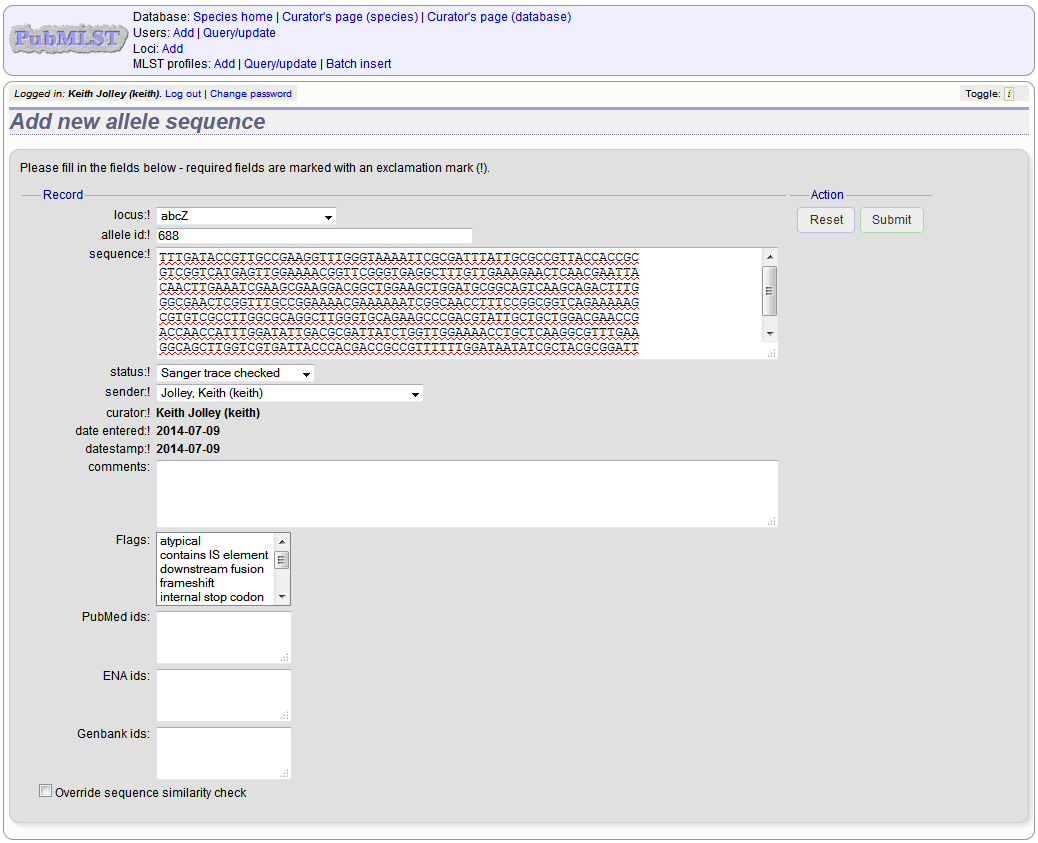
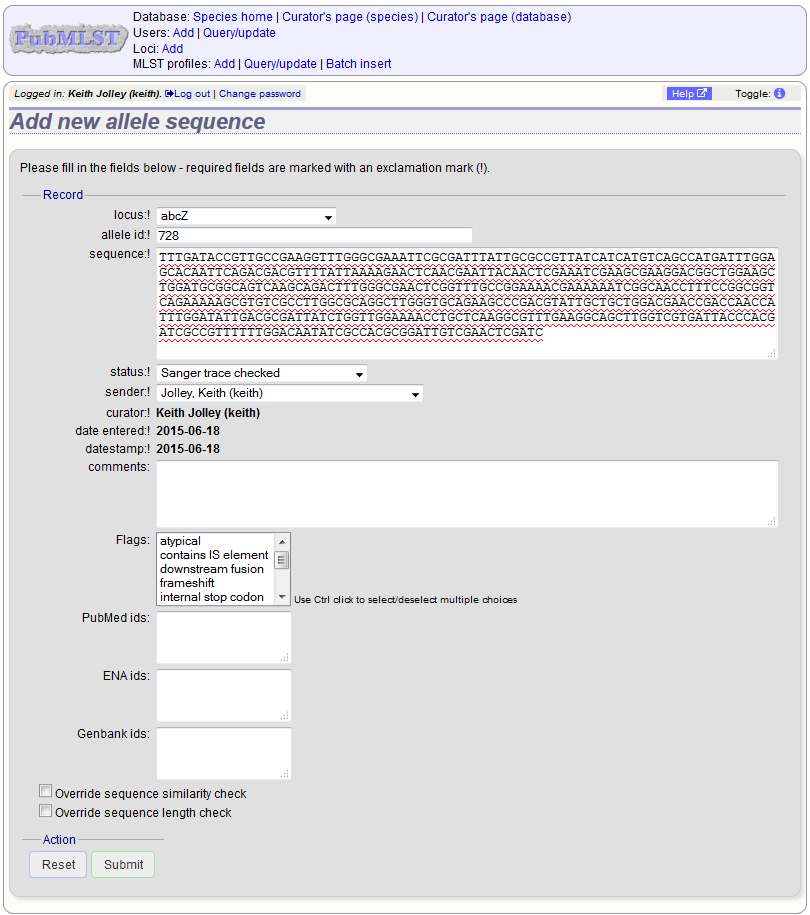
Override sequence length check when adding new alleles.

diff --git a/curator_guide.rst b/curator_guide.rst
@@ -31,22 +31,37 @@ Adding new allele sequence definitions
 
 Single allele
 =============
-To add a single new allele, click the sequences (all loci) add (+) link on the curator's main page - if only a few loci are defined with permission for the current user to curate then they will be listed individually and the specific locus allele addition links can also be used.
+To add a single new allele, click the sequences (all loci) add (+) link on the
+curator's main page - if only a few loci are defined with permission for the
+current user to curate then they will be listed individually and the specific
+locus allele addition links can also be used.
 
 .. image:: /images/curation/add_alleles.png 
 
-Select the locus from the dropdown list box. The next available allele id will be entered automatically (if the allele id format is set to integer). Paste the sequence in to form, set the status and select the sender name from the dropdown box. If the sender does not appear in the box, you will need to add them to the registered users.
+Select the locus from the dropdown list box. The next available allele id will
+be entered automatically (if the allele id format is set to integer). Paste
+the sequence in to form, set the status and select the sender name from the
+dropdown box. If the sender does not appear in the box, you will need to add
+them to the registered users.
 
 The status can either be:
 
 * Sanger trace checked
-* WGS: manual extract
-* WGS: automated extract
+* WGS: manual extract ( BIGSdb)
+* WGS: automated extract (BIGSdb)
+* WGS: visually checked
+* WGS: automatically checked
 * unchecked
 
 .. image:: /images/curation/add_alleles2.png 
 
-Press submit. By default, the system will test whether your sequence is similar enough to existing alleles defined for that locus. The sequence will be rejected if it isn't considered similar enough. This test can be overridden by checking the 'Override sequence similarity check' checkbox at the bottom.
+Press submit. By default, the system will test whether your sequence is similar
+enough to existing alleles defined for that locus. The sequence will be
+rejected if it isn't considered similar enough. This test can be overridden by
+checking the 'Override sequence similarity check' checkbox at the bottom.  It
+will also check that the sequence length is within the allowed range for that
+locus.  These checks can also be overridden by checking the 'Override sequence
+length check' checkbox, allowing the addition of unusual length alleles.
 
 .. seealso::
 
